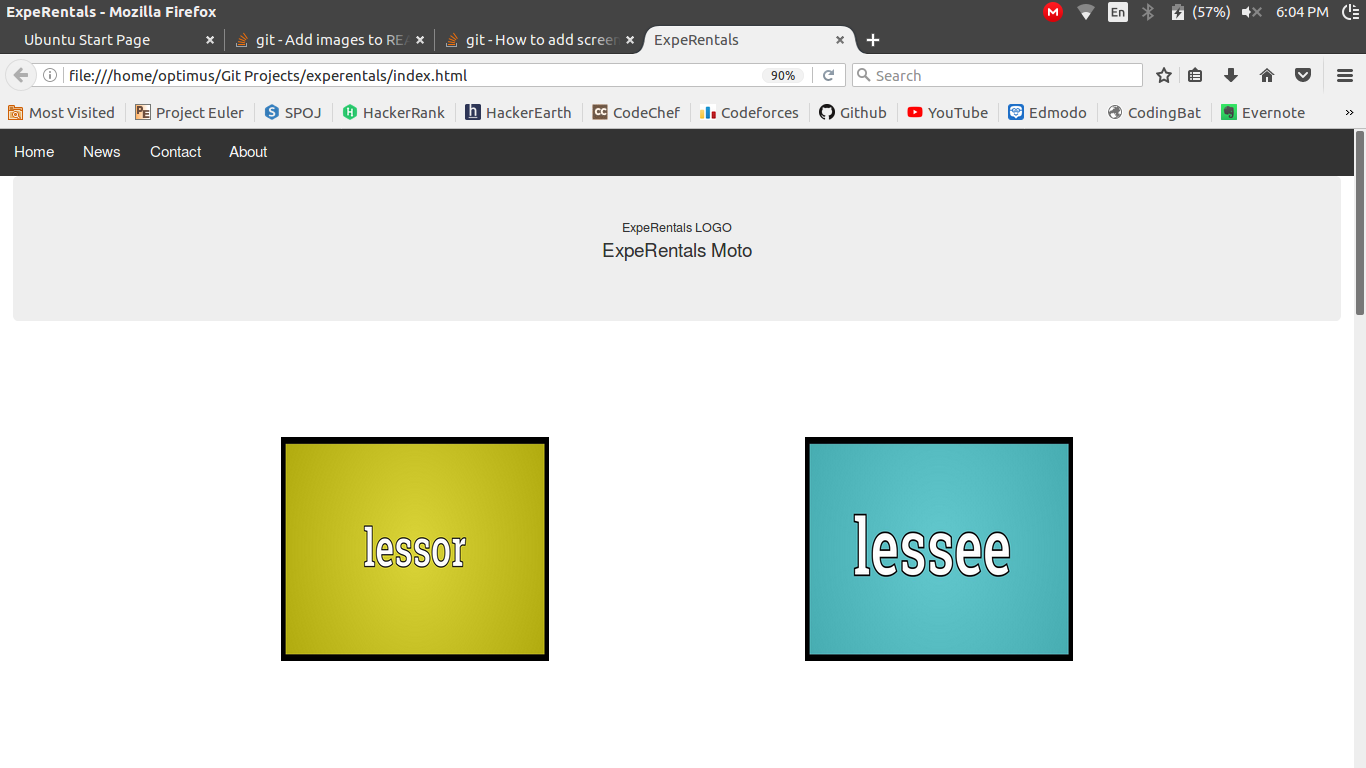
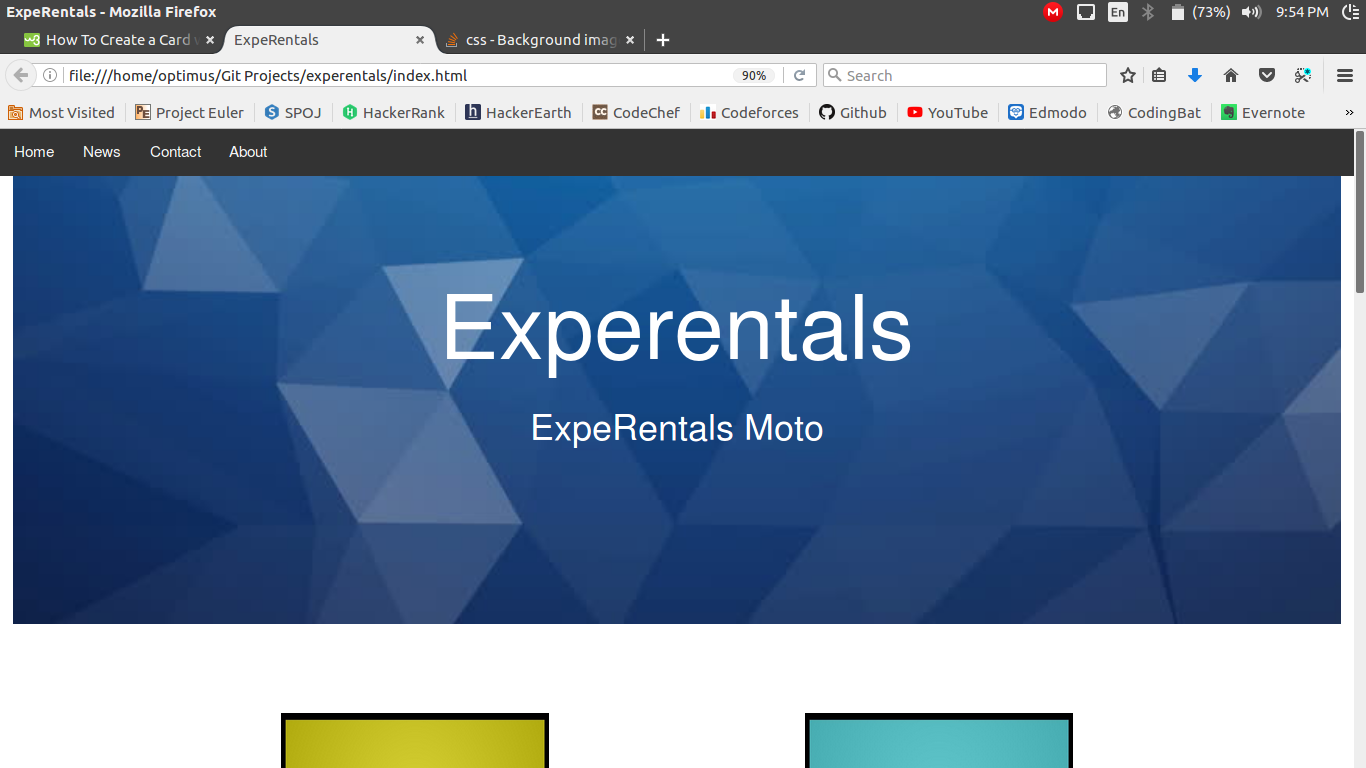
Pranav: Login 99% done 22/9/2017 ...

diff --git a/login.html b/login.html
@@ -113,6 +113,23 @@
 	}
 
 
+	/*=========CSS CODED================*/
+	
+	.card {
+	    box-shadow: 0 4px 8px 0 rgba(0,0,0,0.2);
+	    transition: 0.3s;
+	    width: 40%;
+	}
+
+	.card:hover {
+	    box-shadow: 0 8px 16px 0 rgba(0,0,0,0.2);
+	}
+
+	.container {
+	    padding: 2px 16px;
+	}
+	
+
 
 
 	</style>
@@ -150,11 +167,11 @@
 
 
 	<!-- =================TRYING STARTS========================= -->
+	
+	<div style="margin-top: 100px;">
 
-	<div class="container">
-
-
-
+	<div class="card" style="padding: 10px 10px 10px 10px;max-width: 500px;margin: auto; min-width: 300px;">
+	
 
 		<ul class="nav nav-tabs nav-justified">
 			
@@ -177,27 +194,48 @@
 				     <label >Password:</label>
 				     <input type="password" class="form-control" id="pwd" placeholder="Password">
 				   </div>
-				   <div class="checkbox">
+				   <div class="checkbox" style="text-align: center;">
 				     <label><input type="checkbox"> Remember me</label>
-				   </div>
- 				   <button type="button" class="btn btn-primary btn-lg">Submit</button>
+				   	 <br><br>
+ 				   	 <button type="button" class="btn btn-primary btn-lg">Submit</button>
+ 					</div>
  				</form>   	
 		    </div>
 	    
 	    	<div id="SignUp" class="tab-pane fade">
-		      <h3>Menu 1</h3>
-		      <p>Ut enim ad minim veniam, quis nostrud exercitation ullamco laboris nisi ut aliquip ex ea commodo consequat.</p>
+		      <form>
+				   <div class="form-group">
+				     <label >Username:</label>
+				     <input type="text" class="form-control" id="uemail" placeholder="UserName">
+				   </div>
+				   <div class="form-group">
+				     <label >Email:</label>
+				     <input type="email" class="form-control" id="email" placeholder="Email">
+				   </div>
+				   <div class="form-group">
+				     <label >Password:</label>
+				     <input type="password" class="form-control" id="pwd" placeholder="Password">
+				   </div>
+				   <div class="form-group">
+				     <label >Confirm Password:</label>
+				     <input type="password" class="form-control" id="conpwd" placeholder="Confirm Password">
+				   </div>
+				   <div class="checkbox" style="text-align: center;">
+				   	 <button type="button" class="btn btn-primary btn-lg">Submit</button>
+ 				   </div>
+ 				</form>
 			</div>
 
 		</div>
-
+		<hr>
+		
 	</div>
-
+	</div>
 	<!-- ======================TRYING ENDS==================== -->
 
   	<!-- ================BOOTSNIP STARTS================== -->
 
-  	<div class="container">
+<!--   	<div class="container">
     	<div class="row">
 			<div class="col-md-6 col-md-offset-3">
 				<div class="panel panel-login">
@@ -271,7 +309,7 @@
 			</div>
 		</div>
 	</div>
-
+ -->
 
   	<!-- ==================BOOTSNIP ENDS==================== -->
 

diff --git a/index.html b/index.html
@@ -113,11 +113,13 @@
 	<!-- ===================INTRODUCTION: LOGO AND MOTO STARTS==================== -->
 	<div class = "container-fluid">
 		
-		<div class="jumbotron" align="center">
+		<div align="center" style="background: url(images/homepage/background1.jpg) ; background-size: 100%;min-height: 500px;padding-top: 100px;">
 			
-			<img src="" alt="ExpeRentals LOGO">
+			<!-- <img src="" alt="ExpeRentals LOGO"> -->
 
-			<p style=""> ExpeRentals Moto</p>
+			<p style="font-size: 100px;color: white;">Experentals </p>
+
+			<p style="color:white; font-size: 40px;"> ExpeRentals Moto</p>
 
 		</div>
 

diff --git a/README.md b/README.md
@@ -1,6 +1,8 @@
 # experentals
 
-Every thing is under construction ... I have copied bootstrap code for reference ...
+HomePage is under construction  ... I have copied bootstrap code for reference ...
+
+
 
 HomePage...
 
@@ -16,4 +18,6 @@ HomePage...
 
 Login ...
 
-![alt text](readmeImages/4.png)
+![alt text](readmeImages/login.png)
+
+![alt text](readmeImages/signUp.png)
